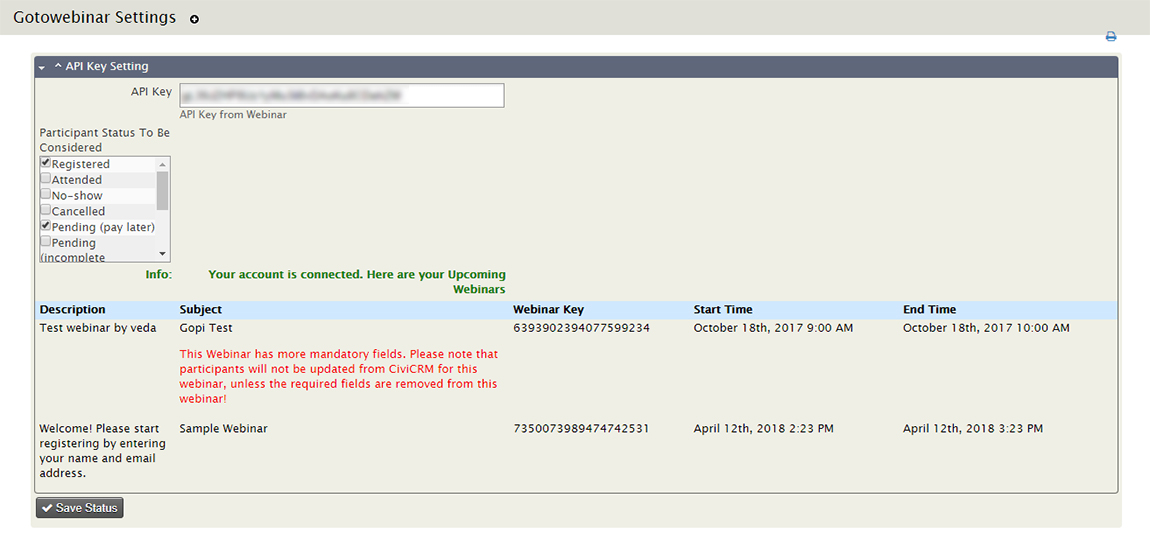
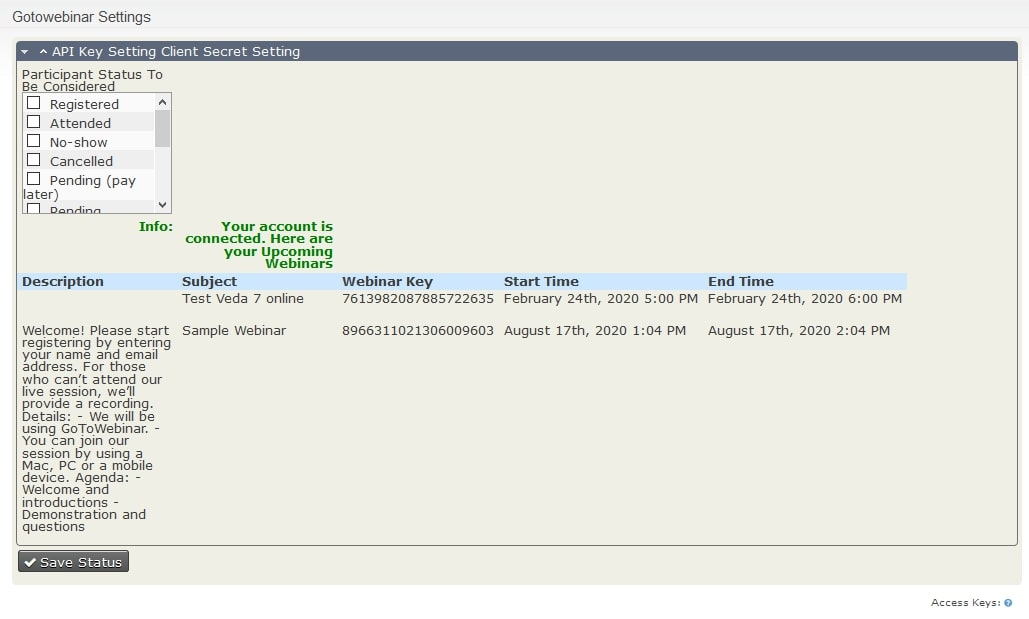
version number has been changed along with new screenshots into the Readme.md and info.xml files

diff --git a/README.md b/README.md
@@ -6,22 +6,26 @@ CiviCRM Events can be integrated with GoToWebinar
 
 ### Installation ###
 
-* Install the extension manually in CiviCRM. More details [here](http://wiki.civicrm.org/confluence/display/CRMDOC/Extensions#Extensions-Installinganewextension) about installing extensions in CiviCRM.
-* Configure GoToWebinar details in Events >> GoToWebinar Settings(civicrm/gotowebinar/settings?reset=1)
+* Install the extension in CiviCRM. More details [here](https://docs.civicrm.org/sysadmin/en/latest/customize/extensions/#installing-a-new-extension) about installing extensions in CiviCRM.
+* Configure GoToWebinar details in **Events >> GoToWebinar Settings** (civicrm/gotowebinar/settings?reset=1)
 ![Screenshot of integration options](images/webinar-setting-page.jpg)
 
-* After the successful authentication, list of upcoming webinars will be fetched and displayed on the screen. (Note : Firstname, lastname & email are the only fields that get pushed to webinar for now. Any webinars with additional mandatory fields will not be getting the participants added from CiviCRM)
+* After a successful authentication, a list of upcoming webinars will be fetched and displayed on the screen. (Note: First name, last name & email are the only fields that get pushed to the webinar for now. Webinars with additional mandatory fields will not get participants added from CiviCRM)
 
 ![Screenshot of integration options](images/setting-page-after-auth.jpg)
 
 ### Usage ###
 
-* Setup CiviCRM Event with Webinar Key
+* Setup CiviCRM Event with a Webinar Key
 ![Screenshot of integration options](images/manage-event.jpg)
 
 * When participants register for that civiCRM Event, those participants are automatically created for GoToWebinar Event
 
 ### Changelog ###
+
+#### Ver 3.0.0 ####
+* Migrated to a new Webinar API which uses OAuthv2 standard
+* Auto refresh to obtain new access token and refresh token
 
 #### Ver 2.0.0 ####
 * Migrated to new Webinar API.
@@ -31,6 +35,6 @@ CiviCRM Events can be integrated with GoToWebinar
 
 ### Support ###
 
-support (at) vedaconsulting.co.uk
+support@vedaconsulting.co.uk
 
 
